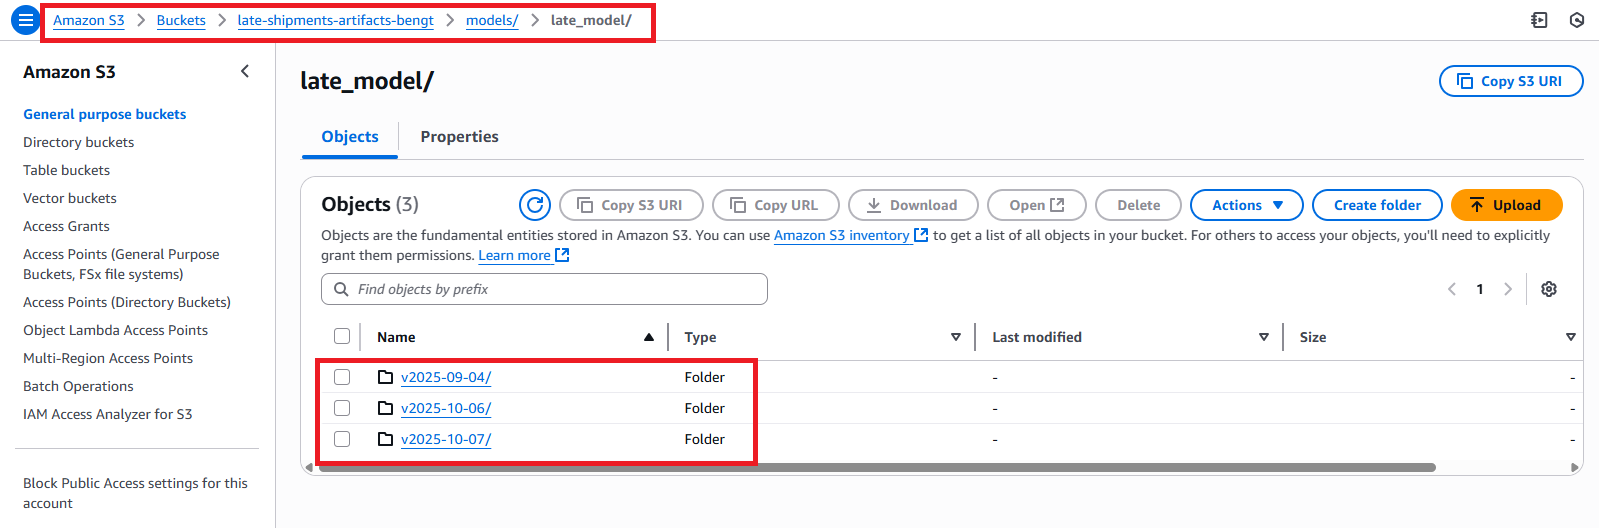
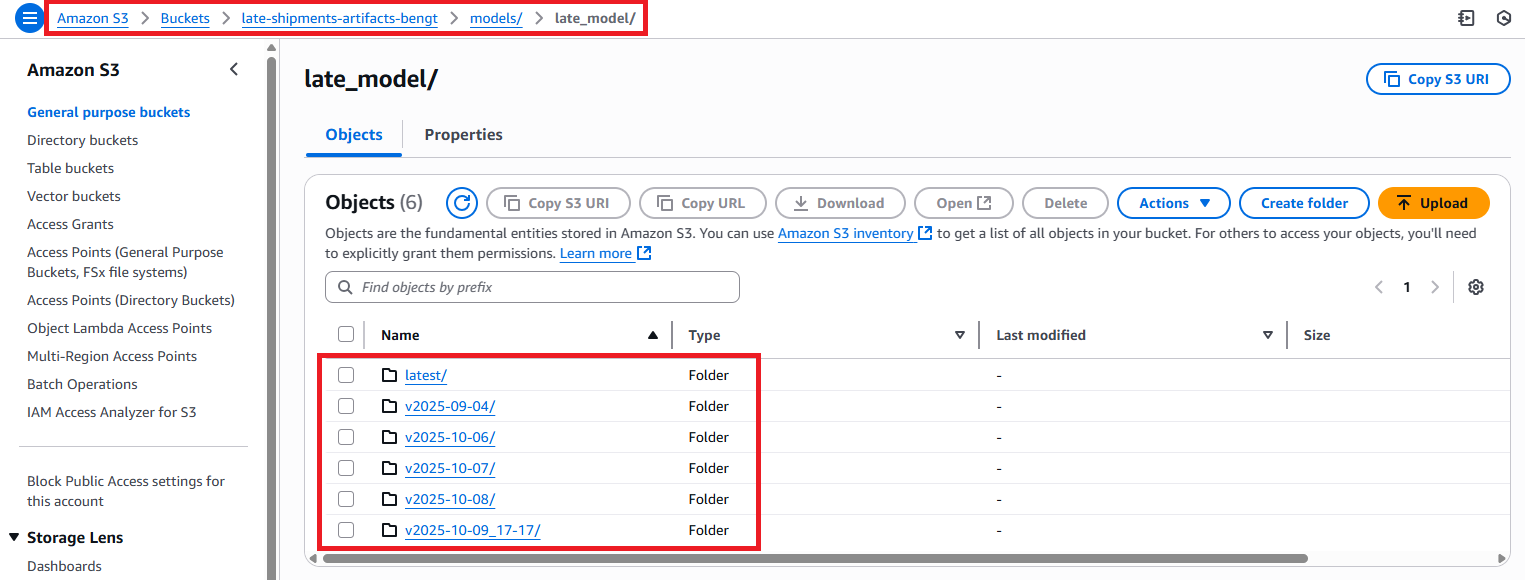
Rename env template to env.example; update README and S3 visuals

diff --git a/README.md b/README.md
@@ -68,6 +68,13 @@ The repository follows a modular, production-ready structure designed for clarit
 ```text
 late-shipment-predictions-ml/
 │
+├── README.md                # Project overview, setup instructions, and deployment details
+├── requirements.txt         # Python dependencies for local and container environments
+├── env.example              # Example environment file (set UPLOAD_TO_S3=false for local retraining)
+├── Dockerfile               # Container definition for FastAPI app (used in ECS deployment)
+├── run_pipeline.py          # Local execution script for the full ML workflow: data loading, feature engineering, training, and evaluation
+├── retrain_pipeline.py      # Prefect-orchestrated retraining pipeline (data prep → model updates → optional S3 uploads)
+│
 ├── api/                     # FastAPI application and endpoint logic
 │   ├── main.py
 │   └── shipment_schema.py
@@ -146,14 +153,9 @@ late-shipment-predictions-ml/
 │    └── smoke/                         # Lightweight checks for API health
 │        └── test_main.py                 # Smoke tests for basic routes (/, /ping) to confirm service is up
 │
-├── tuning/                  # Model tuning scripts with MLflow experiment tracking
-│   ├── tune_late_model.py       # Tunes Random Forest for predicting 1+ day late shipments (optimized for accuracy)
-│   └── tune_very_late_model.py  # Tunes Random Forest for 3+ day late shipments (optimized for recall)
-│
-├── run_pipeline.py          # Main pipeline script to execute the ML workflow
-├── requirements.txt         # List of dependencies
-├── Dockerfile               # Used to containerize and deploy the FastAPI app
-└── README.md
+└── tuning/                  # Model tuning scripts with MLflow experiment tracking
+    ├── tune_late_model.py       # Tunes Random Forest for predicting 1+ day late shipments (optimized for accuracy)
+    └── tune_very_late_model.py  # Tunes Random Forest for 3+ day late shipments (optimized for recall)
 ```
 
 ## Installation and Running the Pipeline
@@ -181,10 +183,34 @@ Key pipeline features:
 
 **Note:**
 Running the pipeline will generate two model files:
-- models/very_late_model.pkl
-- models/late_model.pkl
+- `models/very_late_model.pkl`
+- `models/late_model.pkl`
 
-These models are used by the FastAPI app for inference via the /predict_very_late and /predict_late endpoints.
+These models are used by the FastAPI app for inference via the `/predict_very_late` and `/predict_late` endpoints.
+
+## Configuration
+
+### Environment Variables (minimal setup)
+This project uses environment variables for configuration, but setting them up is **only necessary if you plan to run the retraining pipeline**.  
+The retraining pipeline is used when updating the project with new raw shipment data and optionally uploading new model artifacts to Amazon S3.
+
+If you want to run it locally, follow these steps:
+
+1. Copy the provided example file to create your own `.env`:
+   ```bash
+   cp env.example .env
+   ```
+2. Open the new `.env` file and make sure this line is set:
+   ```bash
+   UPLOAD_TO_S3=false
+   ```
+   
+   This setting is important because the pipeline includes optional logic to upload newly trained models and preprocessing artifacts to S3.
+   Setting `UPLOAD_TO_S3=false` ensures that your local run saves all outputs only to your local folders (`models/` and `data/`) and does not attempt any AWS uploads.
+
+   You do not need to configure any AWS credentials or S3 settings to run the project locally.
+   Those variables are only required if you later deploy or test the pipeline in the cloud with `UPLOAD_TO_S3=true`.
+
 
 ## Deployment
 
@@ -350,11 +376,20 @@ Each retraining run:
 - Hyperparameter tuning is also integrated with MLflow, ensuring all experiments (training and tuning) are versioned and reproducible.
 
 ### Artifact Versioning
-- Artifacts are uploaded to S3 using a versioned structure as follows:
+Each retraining run produces versioned artifacts stored in Amazon S3 with a unique timestamp:
   ```
-  s3://late-shipments-artifacts-bengt/models/late_model/vYYYY-MM-DD/
-  s3://late-shipments-artifacts-bengt/preprocessing/vYYYY-MM-DD/
+  s3://late-shipments-artifacts-bengt/models/late_model/vYYYY-MM-DD_HH-MM/
+  s3://late-shipments-artifacts-bengt/preprocessing/vYYYY-MM-DD_HH-MM/
   ```
+After all versioned uploads complete, the pipeline automatically promotes the newest artifacts to a stable `latest/` location by copying and overwriting them:
+  ```
+  s3://late-shipments-artifacts-bengt/models/late_model/latest/late_model.pkl
+  s3://late-shipments-artifacts-bengt/preprocessing/latest/scaler.pkl
+  s3://late-shipments-artifacts-bengt/preprocessing/latest/onehot_encoder.pkl
+  s3://late-shipments-artifacts-bengt/preprocessing/latest/ordinal_encoder.pkl
+  ```
+This ensures the FastAPI app on ECS always loads the most recent production-ready artifacts without needing to manually adjust S3 paths or redeploy logic.
+Older versions remain preserved for traceability and rollback.
 
 ### Scheduling (Conceptual)
 - The retrain pipeline can be scheduled via Windows Task Scheduler or Prefect Cloud for automated weekly retraining.
@@ -372,8 +407,12 @@ Below are screenshots demonstrating the retraining orchestration and tracking se
 
 - **Versioned Artifacts in Amazon S3:**  
   ![S3 versioned folders overview](assets/orchestration/s3_versions_overview.png)  
-  ![S3 versioned folders detail](assets/orchestration/s3_versions_detail.png)  
-  The screenshots above show the automatically versioned structure in the S3 bucket (`late-shipments-artifacts-bengt`). Each retraining run creates new date-stamped subfolders under `models/` and `preprocessing/` (e.g., `v2025-09-04/`, `v2025-10-06/`, `v2025-10-07/`), ensuring artifact version control and reproducibility of all model iterations.  
+  ![S3 versioned folders detail](assets/orchestration/s3_versions_detail.png)
+  
+  The screenshots above show the automatically managed structure in the S3 bucket (`late-shipments-artifacts-bengt`).
+  Each retraining run creates new date-stamped subfolders under models/ and preprocessing/ (e.g. `v2025-10-09_17-17/`) to preserve version history.
+  After upload, the pipeline automatically promotes the newest artifacts to a stable `latest/` location (e.g. `models/late_model/latest/late_model.pkl`) used by the deployed API.
+  This ensures ECS always loads the most recent production-ready models while older versions remain preserved for traceability and rollback.
 
 - **Prefect Orchestrated Retraining Run:**  
   ![Prefect retrain start](assets/orchestration/prefect_retrain_start.png)  
